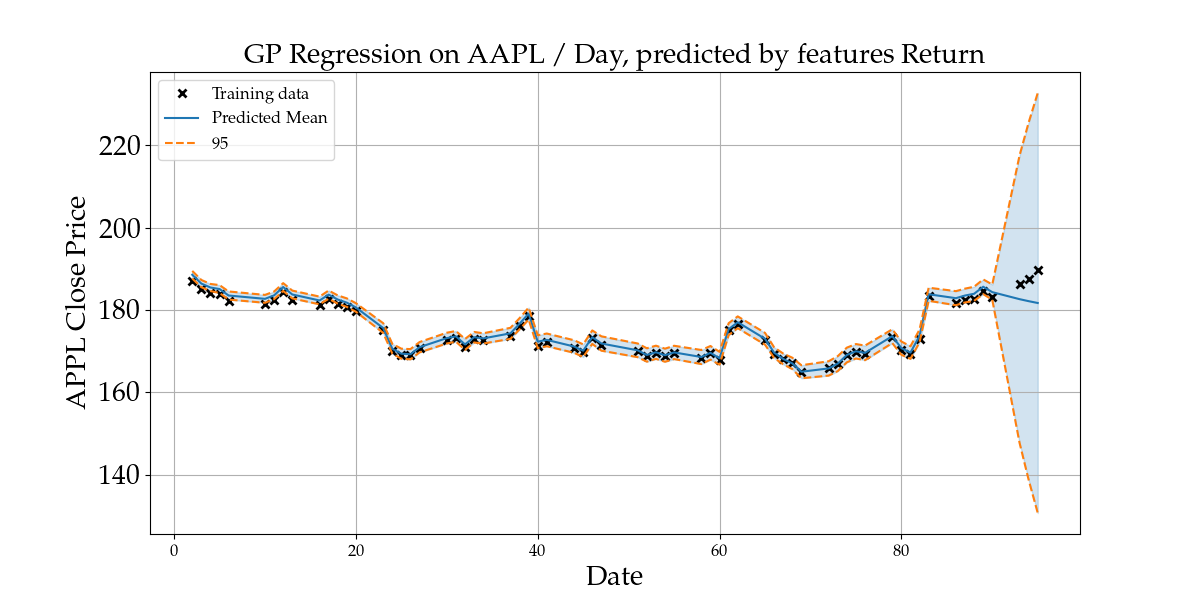
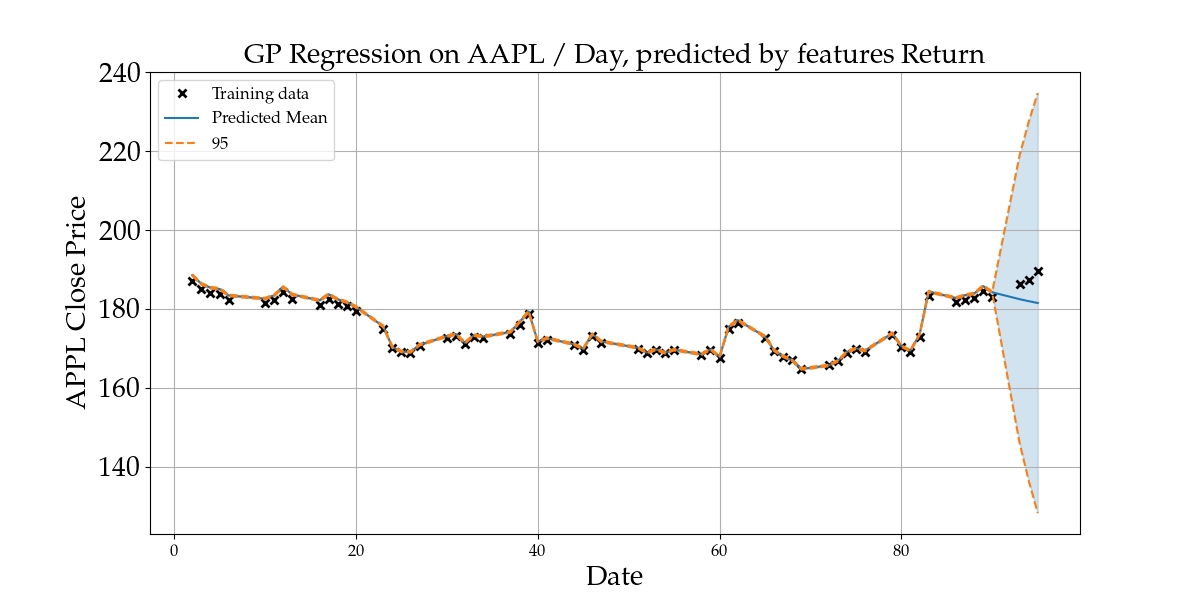
add Kernel Slicing
add Kernel Slicing

diff --git a/Multi-Input_GPR/main.py b/Multi-Input_GPR/main.py
@@ -100,6 +100,21 @@ class MultiInputGPR:
         
         return X_reduced, Y_reduced, X_removed, Y_removed
     
+    # Create a composite kernel that uses different kernels for different input dimensions
+    def create_composite_kernel(self, input_dimension, kernel1_class, kernel2_class):
+        # Kernel for the first input dimension (all other assets)
+        # Create Kernel1 here
+        k1 = kernel1_class(active_dims=slice(0, input_dimension - 2))
+        #k1 = gpflow.kernels.slice(kernel1, slice(0, input_dimension - 2))
+    
+        # Kernel for the second dimension (time)
+        # Create the Kernel2 here
+        k2 = kernel2_class(active_dims=slice(input_dimension - 1, input_dimension))
+        #k2 = gpflow.kernels.slice(kernel2, slice(input_dimension - 1, input_dimension))
+        
+        # Combine the kernels
+        return k1 + k2 
+        
     def run_step_1(self) -> None:
     
         #1. Fetch the actual values of to-be-predicted stock data(e.g. APPL stock price)
@@ -272,11 +287,18 @@ class MultiInputGPR:
         self.full_correlations(X, Y)
 
         #4. Train the model with the input data and the actual values of to-be-predicted stock data
-        for kernel in self.kernel_combinations:
-            model = gpflow.models.GPR(
-                (X, Y), kernel=deepcopy(kernel), noise_variance=1e-3
-            )
-            model = ModelTrainer.train_model(model)
+        self.kernel_combinations = [
+            self.create_composite_kernel(X.shape[1], k1, k2)
+            for k1, k2 in self.kernel_combinations
+        ]
+        
+        for composite_kernel in self.kernel_combinations:
+            # model = gpflow.models.GPR(
+            #     (X, Y), kernel=deepcopy(composite_kernel), noise_variance=1e-1
+            # )
+            
+            # model = ModelTrainer.train_model(model)
+            model = ModelTrainer.train_likelihood(X, Y, composite_kernel)
 
         # add test data to predict as well
         X_full.append(X_AAPL_full_tf)
@@ -314,7 +336,9 @@ if __name__ == "__main__":
 
 
     kernel_combinations = [  
-        gpflow.kernels.Exponential(), 
+        (gpflow.kernels.Exponential, gpflow.kernels.Exponential),
+       # (gpflow.kernels.Exponential(), gpflow.kernels.SquaredExponential()),
+        
     ]
 
     multiInputGPR = MultiInputGPR(

diff --git a/Multi-Input_GPR/model_trainer.py b/Multi-Input_GPR/model_trainer.py
@@ -1,3 +1,4 @@
+from copy import deepcopy
 import gpflow
 from gpflow.utilities import print_summary, set_trainable
 from sklearn.metrics import mean_squared_error
@@ -21,6 +22,36 @@ class ModelTrainer:
         print_summary(model)
 
         return model
+    
+    def train_likelihood(X, Y, composite_kernel, starting_variances=[1e-5, 1e-3, 1e-1, 1.0]):
+        best_model = None
+        best_loss = float('inf')
+
+        for start_var in starting_variances:
+            model = gpflow.models.GPR((X, Y), kernel=deepcopy(composite_kernel), noise_variance=start_var)
+            
+            # Allow the likelihood variance to be trainable
+            gpflow.set_trainable(model.likelihood, True)
+            
+            opt = gpflow.optimizers.Scipy()
+            opt_logs = opt.minimize(model.training_loss, model.trainable_variables)
+            
+            # Get the final loss
+            final_loss = opt_logs.fun
+            print(f"\nModel trained with starting variance {start_var}:")
+            print_summary(model)
+            print(f"Final loss: {final_loss}")
+
+            # Keep the model with the lowest loss
+            if final_loss < best_loss:
+                best_model = model
+                best_loss = final_loss
+
+        print("\nBest model:")
+        print_summary(best_model)
+        print(f"Best loss: {best_loss}")
+
+        return best_model
 
     def train_best_model(self, X_tf, Y_tf):
         best_kernel = None
